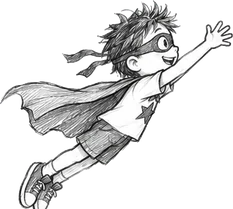
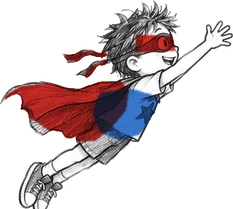
Shoe String Swing: colour the hero, yellow stars, bluer pencil sky
Hero sprites tinted in place (red cape and mask, blue shirt) with a multiply
blend so Mark's graphite shading shows through. Stars switch from pencil grey
to yellow. The blue sky tile gets denser, more saturated strokes and a stronger
top tint. All other art stays graphite.

Claude-Session: https://claude.ai/code/session_01TW2c8UJkoBh3AZwnYZWCPG

Changed region(s): [[0.0, 0.2297, 0.691, 0.689], [0.5708, 0.1435, 0.7511, 0.2584]]

diff --git a/site/play/shoe-string-swing.html b/site/play/shoe-string-swing.html
@@ -343,7 +343,7 @@ function step(dt){
   for(const b of balls){const by=SEA-b.r*.55;const dx=o.x-b.x,dy=o.y-by,d=Math.hypot(dx,dy);
     if(d<b.r+22&&o.vy>0){o.vy=-Math.max(900,o.vy*.9);o.vx=Math.max(o.vx,260);b.squash=1;o.att=-1;sfx.boing();burst(b.x,by-b.r,ORANGE,8)}}
   // smiling stars
-  for(const s of stars){if(!s.got&&Math.hypot(o.x-s.x,o.y-s.y)<40){s.got=true;starCount++;sfx.star();burst(s.x,s.y,YELLOW,10);hud()}}
+  for(const s of stars){if(!s.got&&Math.hypot(o.x-s.x,o.y-s.y)<40){s.got=true;starCount++;sfx.star();burst(s.x,s.y,STAR,10);hud()}}
   if(o.vx>40)o.face=1;else if(o.vx<-40)o.face=-1;
   if(o.x>maxX){maxX=o.x;const m=meters(maxX);if(m>=nextMile){const sc=nextMile%SCENE_M===0?sceneOf(nextMile/SCENE_M):null;showBanner(sc?'Welcome to '+sc.name+'!':nextMile+' m!',sc?nextMile+' m':'Keep swinging');sfx.mile();nextMile+=100}hud()}
   if(o.y>SEA-6){splash();return}
@@ -375,6 +375,7 @@ function showBanner(t,sub){const b=$('banner');b.innerHTML=t+(sub?'<small>'+sub+
 const OUT='#1f1f22';
 // graphite only, like the hero art: every 'colour' is a pencil grey
 const RED='#8c8c91',ORANGE='#6e6e73',YELLOW='#a6a6ab',GREEN='#58585d',BLUE='#4f4f55',PURPLE='#47474d',PINK='#77777c',TEAL='#606065',BROWN='#545459',SKIN='#d9d7d0';
+const STAR='#e9b820'; // the only colour in the drawn art: smiling stars in yellow pencil
 function hx(h){return[parseInt(h.slice(1,3),16),parseInt(h.slice(3,5),16),parseInt(h.slice(5,7),16)]}
 function mix(h,k){const a=hx(h),b=[246,243,234];return'rgb('+a.map((v,i)=>Math.round(b[i]+(v-b[i])*k)).join(',')+')'}
 function dark(h,k){return'rgb('+hx(h).map(v=>Math.round(v*(1-(k||.24)))).join(',')+')'}
@@ -804,18 +805,18 @@ function buildSkyTile(w,h){
   const c=document.createElement('canvas'),d=Math.min(2,DPR);c.width=Math.ceil(w*d);c.height=Math.ceil(h*d);
   const x=c.getContext('2d');x.scale(d,d);x.lineCap='round';
   let seed=7;const rnd=()=>{seed=(seed*16807)%2147483647;return seed/2147483647};
-  const strokes=Math.round(w*h/26);
+  const strokes=Math.round(w*h/16);
   for(let i=0;i<strokes;i++){
     const v=Math.pow(rnd(),1.35),y=v*h;                    // more strokes near the top
     const dens=1-v*.9;                                    // and darker there
     const px=rnd()*w,len=7+rnd()*16,dir=rnd()<.78?-.95:-.35;  // mostly one slant, some cross-shading
     const ang=dir+(rnd()-.5)*.35,dx=Math.cos(ang)*len,dy=Math.sin(ang)*len;
-    const hue=rnd();x.strokeStyle=`rgba(${hue<.5?118:96},${hue<.5?163:148},${hue<.5?222:210},${(.05+rnd()*.13*dens+.04*dens).toFixed(3)})`;
+    const hue=rnd();x.strokeStyle=`rgba(${hue<.5?96:70},${hue<.5?150:132},${hue<.5?222:214},${(.08+rnd()*.2*dens+.07*dens).toFixed(3)})`;
     x.lineWidth=.8+rnd()*1.6;
     for(const o of[-w,0,w]){x.beginPath();x.moveTo(px+o,y);x.quadraticCurveTo(px+o+dx*.5+(rnd()-.5)*2,y+dy*.5,px+o+dx,y+dy);x.stroke()}
   }
   // soft overall tint, heavier at the top, gone by the skyline
-  const gr=x.createLinearGradient(0,0,0,h);gr.addColorStop(0,'rgba(150,190,232,.26)');gr.addColorStop(.7,'rgba(160,198,235,.08)');gr.addColorStop(1,'rgba(160,198,235,0)');
+  const gr=x.createLinearGradient(0,0,0,h);gr.addColorStop(0,'rgba(120,170,230,.42)');gr.addColorStop(.7,'rgba(140,186,235,.14)');gr.addColorStop(1,'rgba(160,198,235,0)');
   x.fillStyle=gr;x.fillRect(0,0,w,h);
   // paper tooth: tiny flecks where the pencil skipped
   x.globalCompositeOperation='destination-out';
@@ -855,7 +856,7 @@ function drawGround(t){
   if(m.f>0)withLayer(m.f,()=>{GROUND_DRAW[sceneOf(m.b).id](t)});
 }
 function drawStar(c,x,y,r,rot,lw){
-  pfill(c,cc=>starPath(cc,x,y,r,rot),YELLOW,[x-r,y-r,r*2,r*2],Math.max(3,r*.25),lw||2.5,{a:.45,wash:.12});
+  pfill(c,cc=>starPath(cc,x,y,r,rot),STAR,[x-r,y-r,r*2,r*2],Math.max(3,r*.25),lw||2.5,{a:.75,wash:.42});
   c.save();c.translate(x,y);c.rotate(rot);c.fillStyle=OUT;c.beginPath();c.arc(-r*.2,-r*.05,r*.09,0,7);c.arc(r*.2,-r*.05,r*.09,0,7);c.fill();
   c.strokeStyle=OUT;c.lineWidth=Math.max(1.4,r*.09);c.beginPath();c.arc(0,r*.08,r*.2,.3,Math.PI-.3);c.stroke();c.restore();
 }

diff --git a/src/games/shoe-string-swing.html b/src/games/shoe-string-swing.html
@@ -304,7 +304,7 @@ function step(dt){
   for(const b of balls){const by=SEA-b.r*.55;const dx=o.x-b.x,dy=o.y-by,d=Math.hypot(dx,dy);
     if(d<b.r+22&&o.vy>0){o.vy=-Math.max(900,o.vy*.9);o.vx=Math.max(o.vx,260);b.squash=1;o.att=-1;sfx.boing();burst(b.x,by-b.r,ORANGE,8)}}
   // smiling stars
-  for(const s of stars){if(!s.got&&Math.hypot(o.x-s.x,o.y-s.y)<40){s.got=true;starCount++;sfx.star();burst(s.x,s.y,YELLOW,10);hud()}}
+  for(const s of stars){if(!s.got&&Math.hypot(o.x-s.x,o.y-s.y)<40){s.got=true;starCount++;sfx.star();burst(s.x,s.y,STAR,10);hud()}}
   if(o.vx>40)o.face=1;else if(o.vx<-40)o.face=-1;
   if(o.x>maxX){maxX=o.x;const m=meters(maxX);if(m>=nextMile){const sc=nextMile%SCENE_M===0?sceneOf(nextMile/SCENE_M):null;showBanner(sc?'Welcome to '+sc.name+'!':nextMile+' m!',sc?nextMile+' m':'Keep swinging');sfx.mile();nextMile+=100}hud()}
   if(o.y>SEA-6){splash();return}
@@ -336,6 +336,7 @@ function showBanner(t,sub){const b=$('banner');b.innerHTML=t+(sub?'<small>'+sub+
 const OUT='#1f1f22';
 // graphite only, like the hero art: every 'colour' is a pencil grey
 const RED='#8c8c91',ORANGE='#6e6e73',YELLOW='#a6a6ab',GREEN='#58585d',BLUE='#4f4f55',PURPLE='#47474d',PINK='#77777c',TEAL='#606065',BROWN='#545459',SKIN='#d9d7d0';
+const STAR='#e9b820'; // the only colour in the drawn art: smiling stars in yellow pencil
 function hx(h){return[parseInt(h.slice(1,3),16),parseInt(h.slice(3,5),16),parseInt(h.slice(5,7),16)]}
 function mix(h,k){const a=hx(h),b=[246,243,234];return'rgb('+a.map((v,i)=>Math.round(b[i]+(v-b[i])*k)).join(',')+')'}
 function dark(h,k){return'rgb('+hx(h).map(v=>Math.round(v*(1-(k||.24)))).join(',')+')'}
@@ -765,18 +766,18 @@ function buildSkyTile(w,h){
   const c=document.createElement('canvas'),d=Math.min(2,DPR);c.width=Math.ceil(w*d);c.height=Math.ceil(h*d);
   const x=c.getContext('2d');x.scale(d,d);x.lineCap='round';
   let seed=7;const rnd=()=>{seed=(seed*16807)%2147483647;return seed/2147483647};
-  const strokes=Math.round(w*h/26);
+  const strokes=Math.round(w*h/16);
   for(let i=0;i<strokes;i++){
     const v=Math.pow(rnd(),1.35),y=v*h;                    // more strokes near the top
     const dens=1-v*.9;                                    // and darker there
     const px=rnd()*w,len=7+rnd()*16,dir=rnd()<.78?-.95:-.35;  // mostly one slant, some cross-shading
     const ang=dir+(rnd()-.5)*.35,dx=Math.cos(ang)*len,dy=Math.sin(ang)*len;
-    const hue=rnd();x.strokeStyle=`rgba(${hue<.5?118:96},${hue<.5?163:148},${hue<.5?222:210},${(.05+rnd()*.13*dens+.04*dens).toFixed(3)})`;
+    const hue=rnd();x.strokeStyle=`rgba(${hue<.5?96:70},${hue<.5?150:132},${hue<.5?222:214},${(.08+rnd()*.2*dens+.07*dens).toFixed(3)})`;
     x.lineWidth=.8+rnd()*1.6;
     for(const o of[-w,0,w]){x.beginPath();x.moveTo(px+o,y);x.quadraticCurveTo(px+o+dx*.5+(rnd()-.5)*2,y+dy*.5,px+o+dx,y+dy);x.stroke()}
   }
   // soft overall tint, heavier at the top, gone by the skyline
-  const gr=x.createLinearGradient(0,0,0,h);gr.addColorStop(0,'rgba(150,190,232,.26)');gr.addColorStop(.7,'rgba(160,198,235,.08)');gr.addColorStop(1,'rgba(160,198,235,0)');
+  const gr=x.createLinearGradient(0,0,0,h);gr.addColorStop(0,'rgba(120,170,230,.42)');gr.addColorStop(.7,'rgba(140,186,235,.14)');gr.addColorStop(1,'rgba(160,198,235,0)');
   x.fillStyle=gr;x.fillRect(0,0,w,h);
   // paper tooth: tiny flecks where the pencil skipped
   x.globalCompositeOperation='destination-out';
@@ -816,7 +817,7 @@ function drawGround(t){
   if(m.f>0)withLayer(m.f,()=>{GROUND_DRAW[sceneOf(m.b).id](t)});
 }
 function drawStar(c,x,y,r,rot,lw){
-  pfill(c,cc=>starPath(cc,x,y,r,rot),YELLOW,[x-r,y-r,r*2,r*2],Math.max(3,r*.25),lw||2.5,{a:.45,wash:.12});
+  pfill(c,cc=>starPath(cc,x,y,r,rot),STAR,[x-r,y-r,r*2,r*2],Math.max(3,r*.25),lw||2.5,{a:.75,wash:.42});
   c.save();c.translate(x,y);c.rotate(rot);c.fillStyle=OUT;c.beginPath();c.arc(-r*.2,-r*.05,r*.09,0,7);c.arc(r*.2,-r*.05,r*.09,0,7);c.fill();
   c.strokeStyle=OUT;c.lineWidth=Math.max(1.4,r*.09);c.beginPath();c.arc(0,r*.08,r*.2,.3,Math.PI-.3);c.stroke();c.restore();
 }
